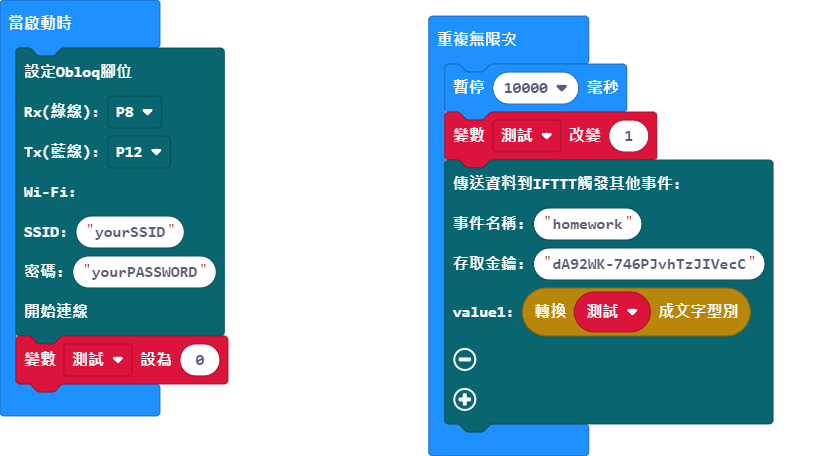
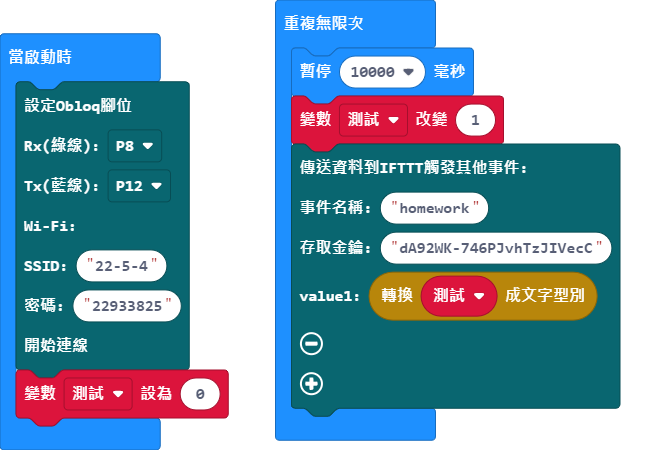
更新 main.blocks, main.ts

diff --git a/main.ts b/main.ts
@@ -1,8 +1,8 @@
 Obloq_http.Obloq_WIFI_setup(
 SerialPin.P8,
 SerialPin.P12,
-"yourSSID",
-"yourPASSWORD"
+"22-5-4",
+"22933825"
 )
 let 測試 = 0
 basic.forever(function () {
